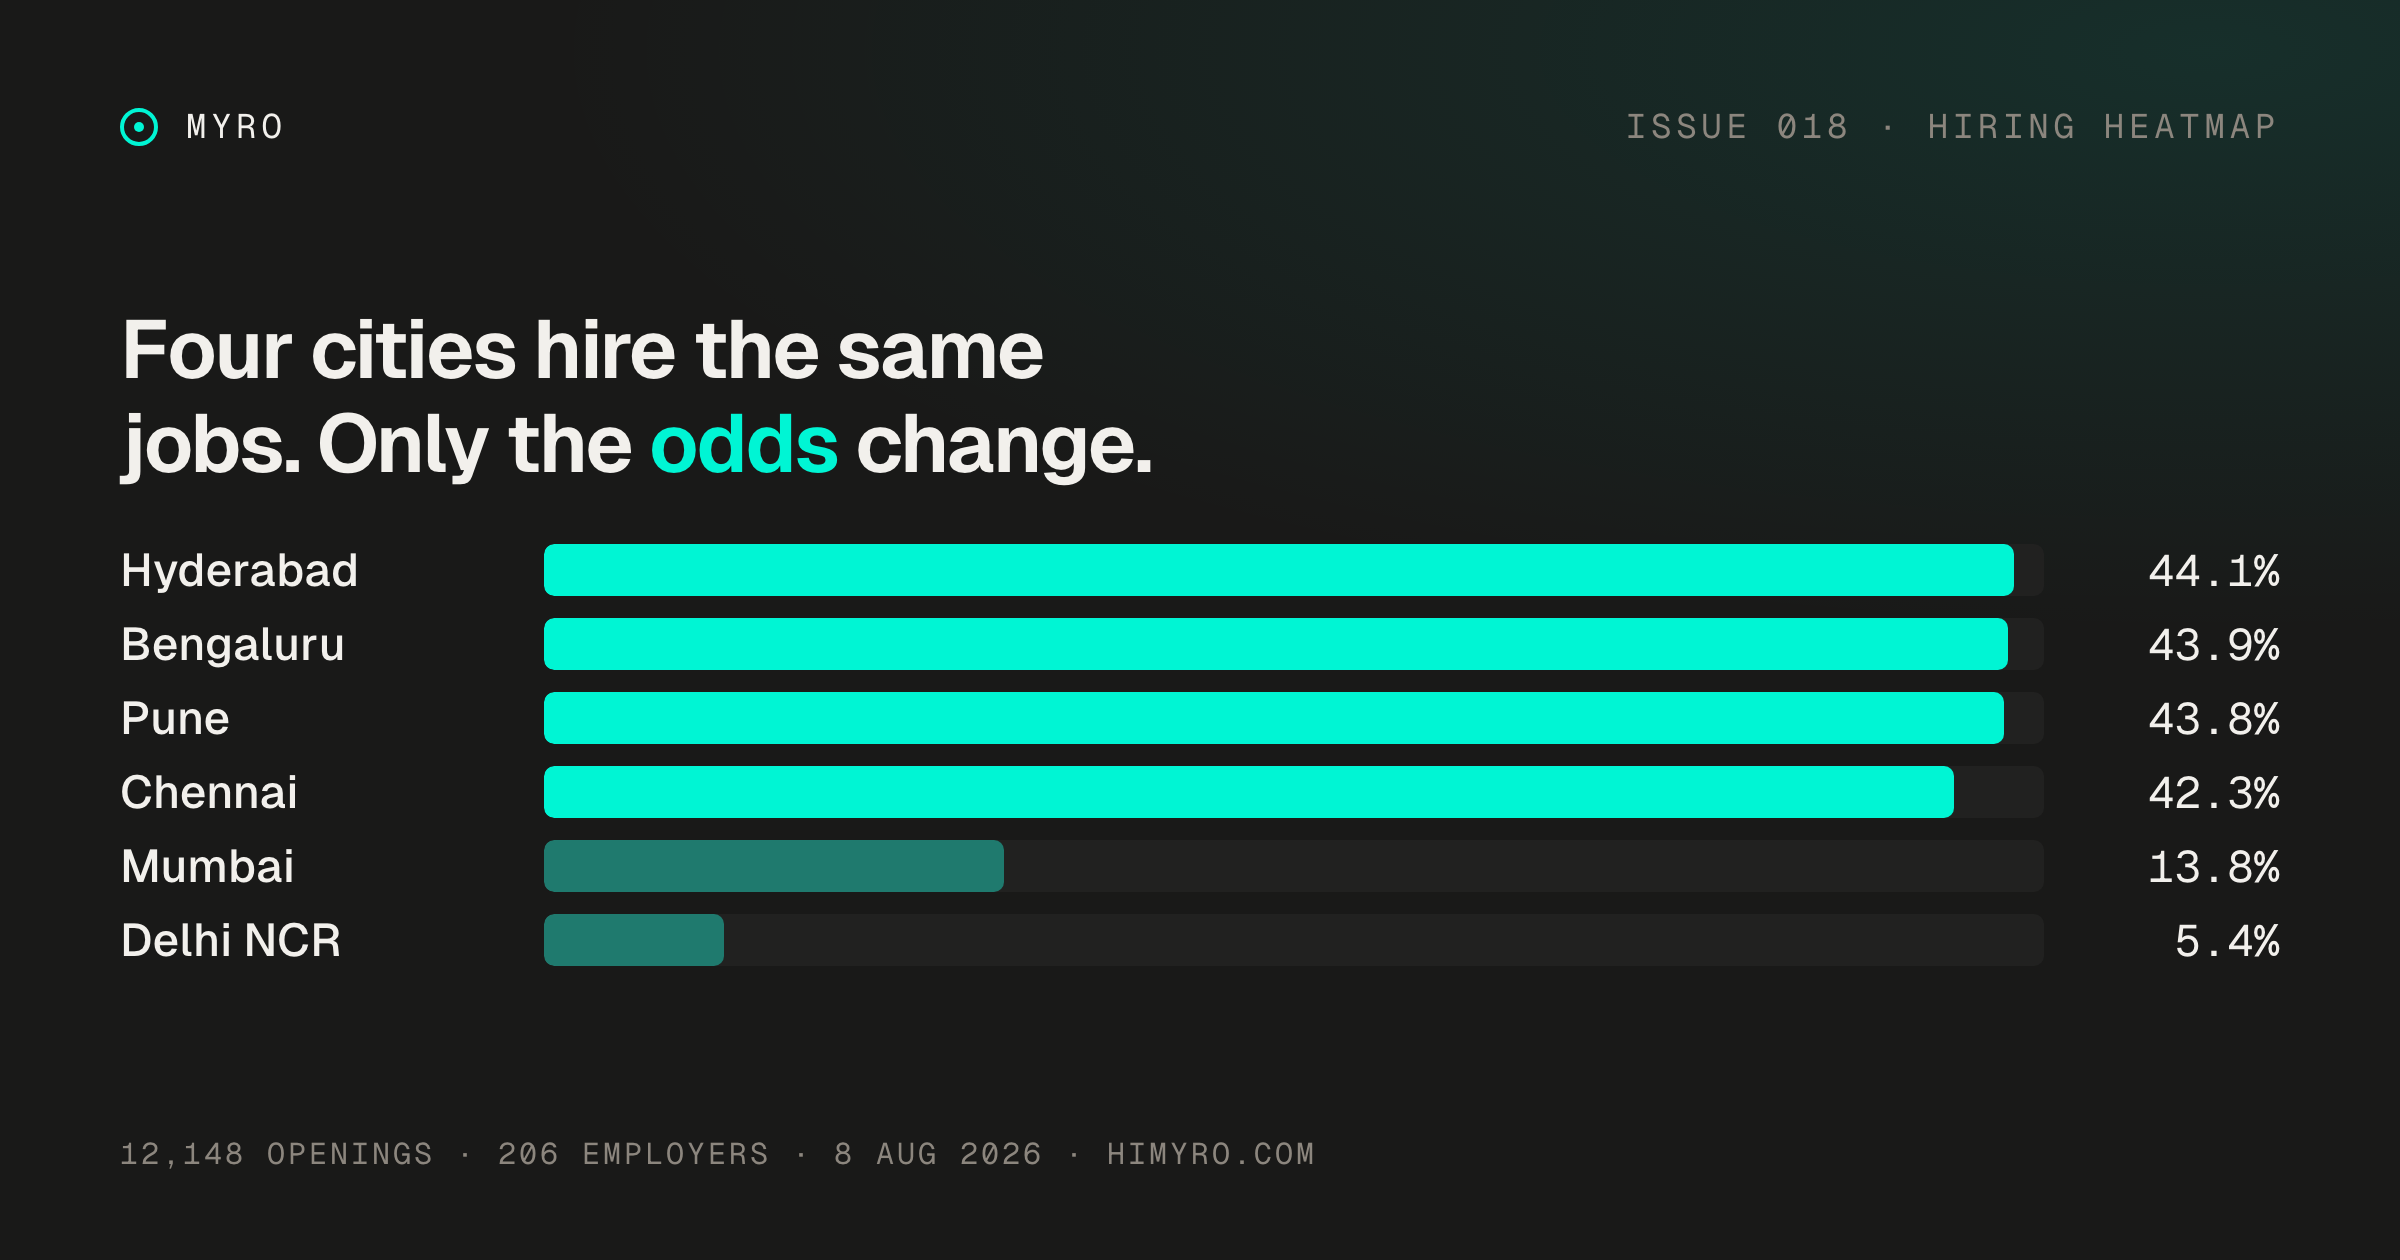
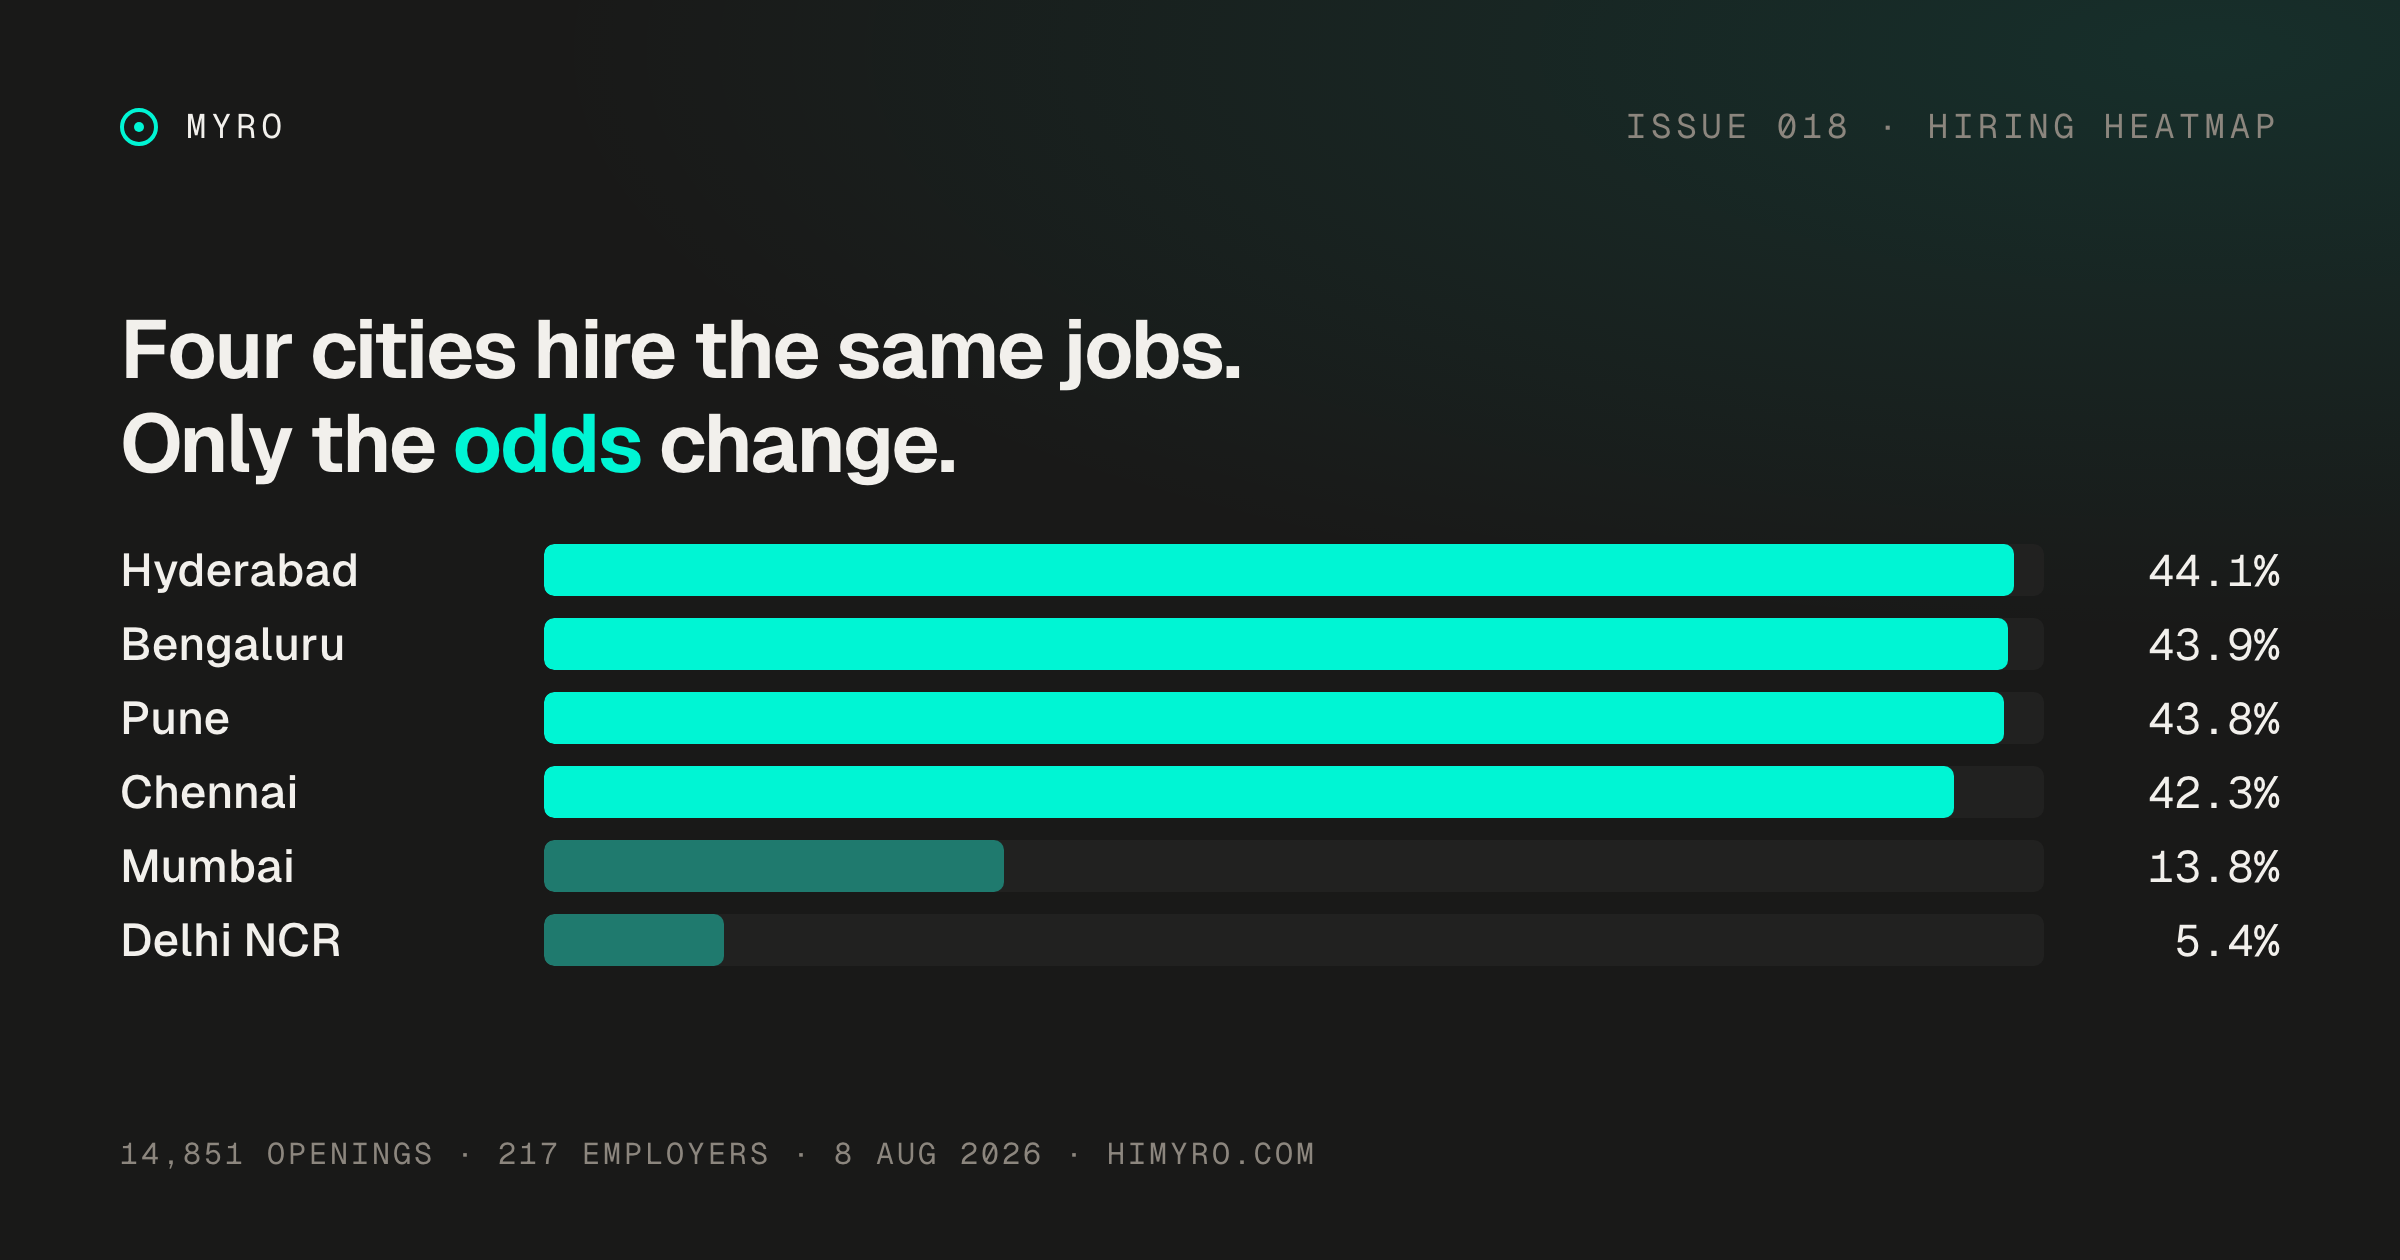
fix(newsletter): issue 18 said 15 application systems, there are 46
The "15" was a limit-15 query read as a total. The 2026-08-08 batch runs
across 46 distinct source_platform values, not 15. Also restates the batch
size: continued ingestion took it from 12,148/206 employers to 14,851/217.

Every derived figure is unchanged and re-verified against the fuller batch:
national engineering pool still 4,362, Bengaluru still 2,086 (47.8%), the
four-city share still 84.7%, and the per-city role mix is identical row for
row. Only the totals and the platform count were wrong.

Retargets the Thursday tease, which promised what each system "does to your
CV" — we hold no evidence about CV parsing behaviour, so the next issue
covers what a company's choice of system reveals about the company instead.

Adds scripts/build-newsletter-carousel.py so carousels and OG cards are
reproducible from a tracked JSON spec. The previous generator lived in a
scratch dir and was lost.

diff --git a/scripts/build-newsletter-carousel.py b/scripts/build-newsletter-carousel.py
@@ -1,0 +1,208 @@
+#!/usr/bin/env python3
+"""Render a Myro newsletter carousel + OG card from a JSON spec.
+
+    python3 scripts/build-newsletter-carousel.py scripts/newsletter-carousel-specs/issue-0XX.json
+
+Slides render at 1080x1350 (Instagram 4:5, safe on LinkedIn). The OG card
+renders at 1200x630. Both at 2x. Brand fonts are embedded from
+frontend/app/fonts so the output does not depend on system fonts.
+
+Spec shape:
+  {"issue": 18, "out": "Myro Newsletter/Issue 018 - carousel",
+   "og_out": "frontend/public/newsletter/issue-018-og.png",
+   "foot": "14,851 openings · 217 employers · 8 Aug 2026",
+   "og": {"h1": "...", "bars": [["Label", 44.1, "44.1%"], ...], "max": 45,
+          "dim_from": 4, "foot": "..."},
+   "slides": [{"kind": "statement", "h1": "...", "sub": "...", "foot": "..."},
+              {"kind": "number", "kicker": "...", "huge": "47.8%", "sub": "..."},
+              {"kind": "bars", "kicker": "...", "bars": [...], "max": 45,
+               "cliff_after": 3, "dim_from": 4, "note": "..."},
+              {"kind": "table", "kicker": "...", "head": ["a","b"],
+               "rows": [["Engineering","47.8%",true], ...], "note": "..."},
+              {"kind": "cards", "kicker": "...",
+               "cards": [["Early · 0-3 yrs", "..."], ...]},
+              {"kind": "cta", "h1": "...", "sub": "...", "pill": "himyro.com →"}]}
+"""
+import base64, json, pathlib, sys, html
+
+ROOT = pathlib.Path("/Users/incognito/True_Yodha")
+FONTS = ROOT / "frontend" / "app" / "fonts"
+W, H = 1080, 1350
+
+
+def _font(name):
+    return base64.b64encode((FONTS / name).read_bytes()).decode()
+
+
+def css(w, h):
+    return """
+@font-face { font-family:'Geist'; src:url(data:font/woff;base64,%s) format('woff');
+  font-weight:100 900; font-display:block; }
+@font-face { font-family:'GeistMono'; src:url(data:font/woff;base64,%s) format('woff');
+  font-weight:100 900; font-display:block; }
+* { margin:0; padding:0; box-sizing:border-box; }
+:root { --bg:#191918; --surface:#212120; --fg:#F2F0EC; --muted:#8C867E;
+  --mint:hsl(172 100%% 48%%); --mint-dim:hsl(172 60%% 30%%);
+  --amber:hsl(35 100%% 64%%); --border:hsl(30 16%% 17%%); }
+body { margin:0; background:var(--bg); font-family:'Geist',system-ui,sans-serif;
+  -webkit-font-smoothing:antialiased; }
+.slide { width:%dpx; height:%dpx; background:var(--bg); color:var(--fg);
+  padding:88px 80px 72px; display:flex; flex-direction:column; position:relative;
+  overflow:hidden; }
+.slide::after { content:''; position:absolute; inset:0;
+  background:radial-gradient(120%% 80%% at 92%% 4%%, hsl(172 100%% 48%% / .10), transparent 58%%);
+  pointer-events:none; }
+.rail { display:flex; align-items:center; justify-content:space-between;
+  font-family:'GeistMono',monospace; font-size:23px; letter-spacing:.14em;
+  text-transform:uppercase; color:var(--muted); margin-bottom:52px; z-index:1; }
+.rail .mark { display:flex; align-items:center; gap:14px; color:var(--fg); }
+.dot { width:26px; height:26px; border-radius:50%%; border:3px solid var(--mint);
+  position:relative; }
+.dot::after { content:''; position:absolute; inset:5px; border-radius:50%%;
+  background:var(--mint); }
+.body { flex:1; display:flex; flex-direction:column; justify-content:center; z-index:1; }
+h1 { font-size:78px; line-height:1.05; font-weight:640; letter-spacing:-.028em; }
+h2 { font-size:56px; line-height:1.12; font-weight:620; letter-spacing:-.02em; }
+.kicker { font-family:'GeistMono',monospace; font-size:25px; letter-spacing:.16em;
+  text-transform:uppercase; color:var(--mint); margin-bottom:34px; }
+.huge { font-size:250px; line-height:.86; font-weight:680; letter-spacing:-.045em;
+  color:var(--mint); font-variant-numeric:tabular-nums; }
+.sub { font-size:37px; line-height:1.4; color:var(--muted); margin-top:40px;
+  font-weight:400; max-width:24ch; }
+.sub strong { color:var(--fg); font-weight:560; }
+.foot { font-family:'GeistMono',monospace; font-size:21px; letter-spacing:.1em;
+  color:var(--muted); text-transform:uppercase; z-index:1; padding-top:40px; }
+.row { display:grid; grid-template-columns:214px 1fr 128px; align-items:center;
+  gap:22px; margin-bottom:19px; }
+.row .city { font-size:32px; font-weight:520; }
+.track { height:42px; background:var(--surface); border-radius:5px; overflow:hidden; }
+.fill { height:100%%; background:var(--mint); border-radius:5px; }
+.fill.dim { background:var(--mint-dim); }
+.val { font-family:'GeistMono',monospace; font-size:31px; text-align:right;
+  font-variant-numeric:tabular-nums; }
+.cliff { display:flex; align-items:center; gap:20px; margin:26px 0 30px; }
+.cliff .line { flex:1; height:2px; background:var(--border); }
+.cliff .lbl { font-family:'GeistMono',monospace; font-size:22px; letter-spacing:.13em;
+  color:var(--amber); text-transform:uppercase; }
+table { width:100%%; border-collapse:collapse; }
+td, th { text-align:left; padding:25px 0; border-bottom:1px solid var(--border);
+  font-size:35px; }
+th { font-family:'GeistMono',monospace; font-size:22px; letter-spacing:.13em;
+  color:var(--muted); text-transform:uppercase; padding-bottom:18px; font-weight:400; }
+td.n { text-align:right; font-family:'GeistMono',monospace;
+  font-variant-numeric:tabular-nums; font-weight:560; }
+td.hi { color:var(--mint); } td.lo { color:var(--muted); }
+.card { background:var(--surface); border:1px solid var(--border); border-radius:18px;
+  padding:36px 38px; margin-bottom:24px; }
+.card .t { font-family:'GeistMono',monospace; font-size:23px; letter-spacing:.13em;
+  text-transform:uppercase; color:var(--mint); margin-bottom:16px; }
+.card .d { font-size:33px; line-height:1.38; color:var(--fg); font-weight:400; }
+.cta { display:inline-block; background:var(--mint); color:#04241D; font-size:40px;
+  font-weight:620; padding:30px 52px; border-radius:999px; letter-spacing:-.01em; }
+.note { font-size:29px; color:var(--muted); line-height:1.45; margin-top:34px; }
+""" % (_font("GeistVF.woff"), _font("GeistMonoVF.woff"), w, h)
+
+
+def bars_html(bars, maxv, cliff_after=None, dim_from=None):
+    out = []
+    for i, (label, val, disp) in enumerate(bars):
+        cls = "fill dim" if (dim_from is not None and i >= dim_from) else "fill"
+        out.append(
+            f'<div class="row"><div class="city">{html.escape(label)}</div>'
+            f'<div class="track"><div class="{cls}" style="width:{val/maxv*100:.1f}%"></div></div>'
+            f'<div class="val">{disp}</div></div>')
+        if cliff_after is not None and i == cliff_after:
+            out.append('<div class="cliff"><div class="line"></div>'
+                       '<div class="lbl">the cliff</div><div class="line"></div></div>')
+    return "".join(out)
+
+
+def slide_body(s):
+    k = s.get("kind")
+    kicker = f'<div class="kicker">{html.escape(s["kicker"])}</div>' if s.get("kicker") else ""
+    if k == "statement":
+        return (f'{kicker}<h1>{s["h1"]}</h1>'
+                + (f'<div class="sub">{s["sub"]}</div>' if s.get("sub") else ""))
+    if k == "number":
+        return (f'{kicker}<div class="huge">{html.escape(s["huge"])}</div>'
+                f'<div class="sub">{s["sub"]}</div>')
+    if k == "bars":
+        note = f'<div class="note">{s["note"]}</div>' if s.get("note") else ""
+        return kicker + bars_html(s["bars"], s["max"], s.get("cliff_after"),
+                                  s.get("dim_from")) + note
+    if k == "table":
+        head = "".join(f'<th{" style=\"text-align:right\"" if i else ""}>'
+                       f'{html.escape(h)}</th>' for i, h in enumerate(s["head"]))
+        rows = "".join(
+            f'<tr><td>{html.escape(r[0])}</td>'
+            f'<td class="n {"hi" if r[2] else "lo"}">{html.escape(r[1])}</td></tr>'
+            for r in s["rows"])
+        note = f'<div class="note">{s["note"]}</div>' if s.get("note") else ""
+        return f'{kicker}<table><tr>{head}</tr>{rows}</table>{note}'
+    if k == "cards":
+        cards = "".join(f'<div class="card"><div class="t">{html.escape(t)}</div>'
+                        f'<div class="d">{d}</div></div>' for t, d in s["cards"])
+        return kicker + cards
+    if k == "cta":
+        return (f'{kicker}<h2 style="max-width:18ch">{s["h1"]}</h2>'
+                f'<div class="sub" style="margin-bottom:56px">{s["sub"]}</div>'
+                f'<div><span class="cta">{html.escape(s["pill"])}</span></div>')
+    raise ValueError(f"unknown slide kind: {k}")
+
+
+def main(spec_path):
+    from playwright.sync_api import sync_playwright
+    spec = json.loads(pathlib.Path(spec_path).read_text())
+    issue = spec["issue"]
+    out = ROOT / spec["out"]; out.mkdir(parents=True, exist_ok=True)
+    slides = spec["slides"]
+    n = len(slides)
+
+    def rail(i):
+        return ('<div class="rail"><div class="mark"><span class="dot"></span>MYRO</div>'
+                f'<div>{i:02d} / {n:02d}</div></div>')
+
+    pages = "".join(
+        f'<div class="slide" id="s{i+1}">{rail(i+1)}<div class="body">{slide_body(s)}</div>'
+        f'<div class="foot">{html.escape(s.get("foot", spec["foot"]))}</div></div>'
+        for i, s in enumerate(slides))
+    doc = f'<!doctype html><meta charset="utf-8"><style>{css(W,H)}</style>{pages}'
+    tmp = out / "_render.html"; tmp.write_text(doc)
+
+    with sync_playwright() as p:
+        br = p.chromium.launch()
+        pg = br.new_page(viewport={"width": W, "height": H}, device_scale_factor=2)
+        pg.goto(tmp.as_uri()); pg.wait_for_timeout(1200)
+        for i in range(1, n + 1):
+            pg.locator(f"#s{i}").screenshot(
+                path=str(out / f"issue-{issue:03d}-slide-{i:02d}.png"))
+        og = spec.get("og")
+        if og:
+            ocss = css(1200, 630) + ".slide{padding:52px 60px 44px}"
+            obars = "".join(
+                f'<div class="row" style="grid-template-columns:190px 1fr 96px;margin-bottom:9px">'
+                f'<div class="city" style="font-size:23px">{html.escape(l)}</div>'
+                f'<div class="track" style="height:26px"><div class="fill'
+                f'{" dim" if i >= og.get("dim_from", 99) else ""}" '
+                f'style="width:{v/og["max"]*100:.1f}%"></div></div>'
+                f'<div class="val" style="font-size:22px">{d}</div></div>'
+                for i, (l, v, d) in enumerate(og["bars"]))
+            odoc = (f'<!doctype html><meta charset="utf-8"><style>{ocss}</style>'
+                    f'<div class="slide" id="og"><div class="rail" style="font-size:17px;margin-bottom:26px">'
+                    f'<div class="mark"><span class="dot" style="width:19px;height:19px;border-width:2px"></span>MYRO</div>'
+                    f'<div>ISSUE {issue:03d} · {html.escape(og.get("series","HIRING HEATMAP"))}</div></div>'
+                    f'<div class="body"><h1 style="font-size:41px;line-height:1.14;margin-bottom:26px;max-width:20ch">{og["h1"]}</h1>'
+                    f'{obars}</div>'
+                    f'<div class="foot" style="font-size:15px;padding-top:22px">{html.escape(og["foot"])}</div></div>')
+            otmp = out / "_og.html"; otmp.write_text(odoc)
+            opg = br.new_page(viewport={"width": 1200, "height": 630}, device_scale_factor=2)
+            opg.goto(otmp.as_uri()); opg.wait_for_timeout(1000)
+            opg.locator("#og").screenshot(path=str(ROOT / spec["og_out"]))
+            otmp.unlink()
+        br.close()
+    tmp.unlink()
+    print(f"issue {issue}: {n} slides -> {out}" + (f"\nog -> {spec['og_out']}" if spec.get("og") else ""))
+
+
+if __name__ == "__main__":
+    main(sys.argv[1])
